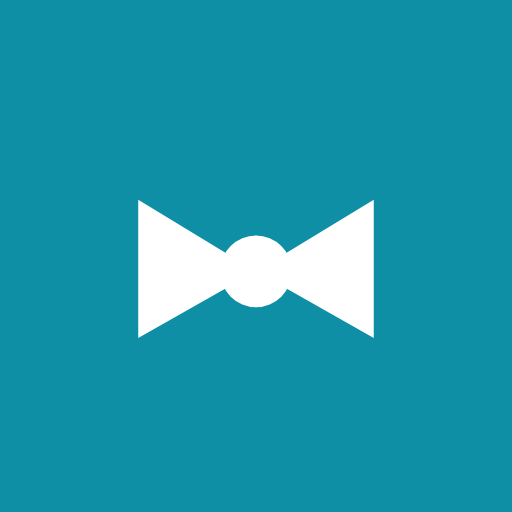
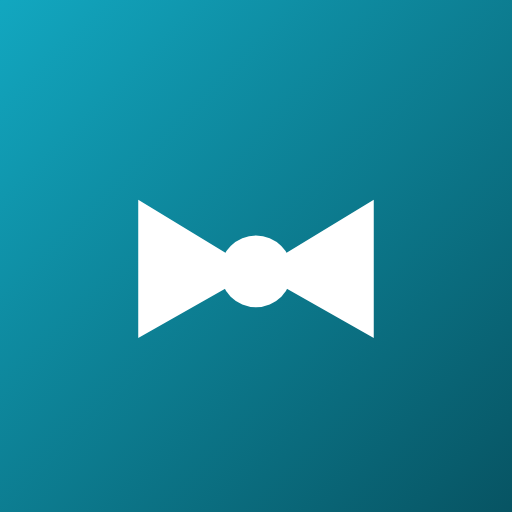
Give the alfred skin the agent-pod crest it came from
The predecessor's icon carried the accent gradient; the rewrite kept only
a flat plate. The owner prefers the original, so the SVG comes back with
its gradient (comments in English, public repo) and the three committed
rasters are re-rendered from it in the bench's Chromium container, since
the image ships no rasteriser on purpose.

diff --git a/.agent/status.md b/.agent/status.md
@@ -1,5 +1,14 @@
 # Status — Adestia
-> MàJ : 2026-08-29
+> MàJ : 2026-08-30
+
+Chantier du 30/08 — **le skin alfred reprend le blason de l'agent-pod**
+(dégradé accent `#12a7c0 → #075463`, plus évolué que l'aplat de la réécriture),
+même geste que le crest skippy en v0.15.0 : SVG repris de
+`agent-pods/images/agent-gw/app/static/icon.svg`, rasters re-rendus dans le
+Chromium du bench (plein bord, opaques, marque dans les 80 % centraux). Tag
+**v0.16.0** = première image publiée sous `ghcr.io/antorfr/adestia` — la mise
+en prod d'« Alfred Adestia » sur `alfred.berard.me` se joue côté `k8s-home-lab`
+(l'agent-pod alfred migre sur `alfred.homepod.berard.me`).
 
 Chantier du 29/08 — **le produit s'appelle Adestia** (ex-Golem, nom pris par
 Golem Network et Golem Cloud). Du latin *adest* — « elle est présente » — et
